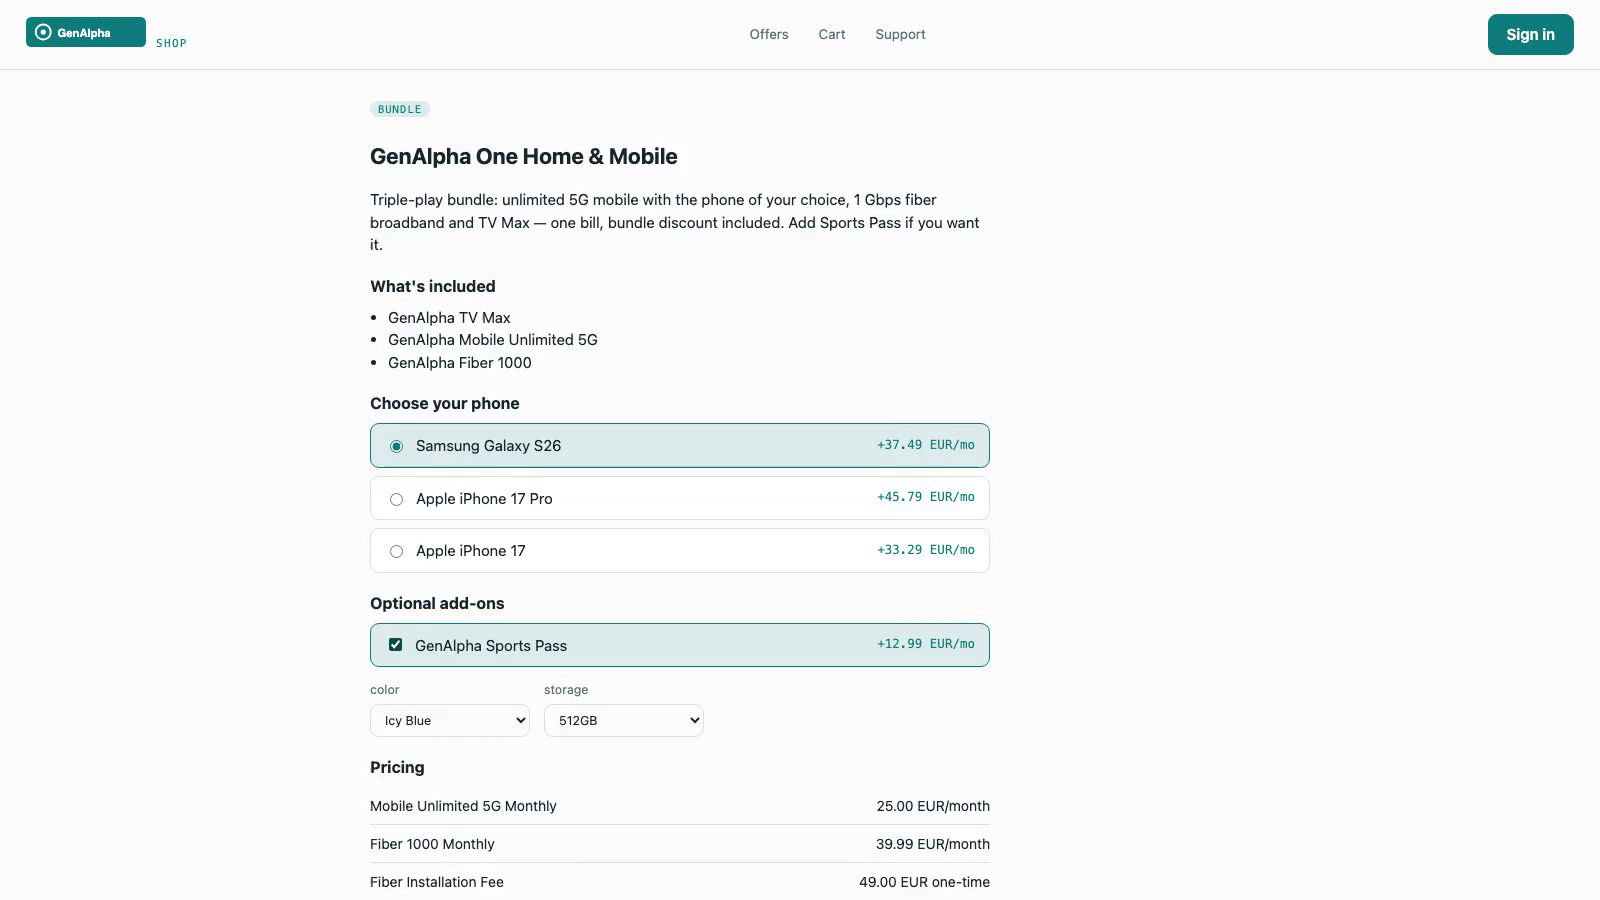
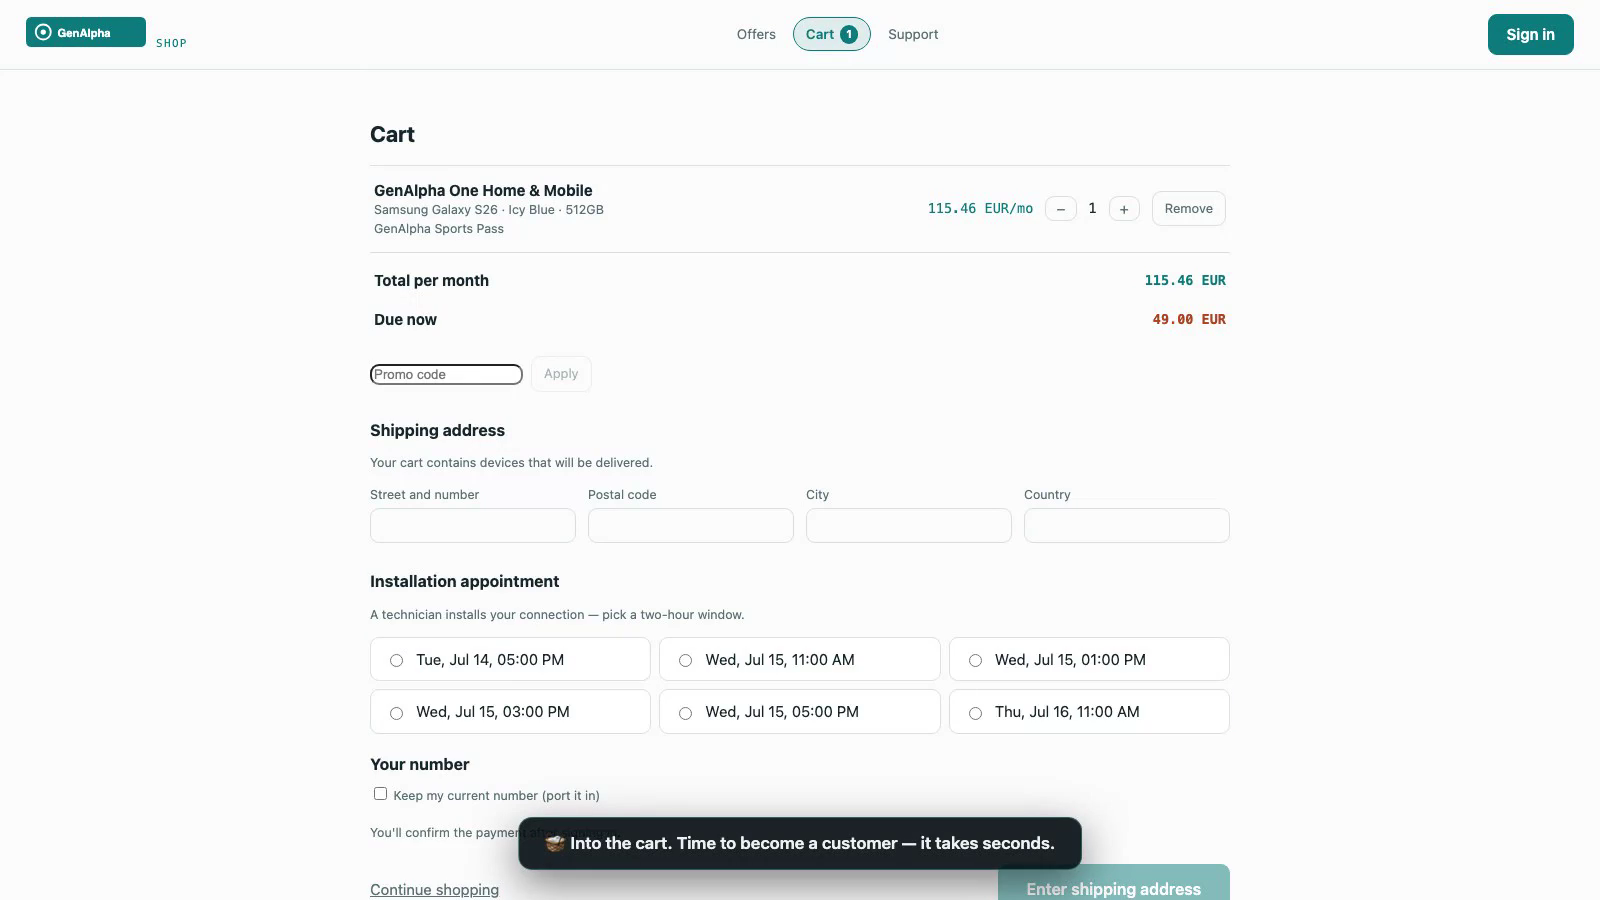
feat: journey film v7 (3:13) — Emil's B2B story, in a pocket
New beat closing Mia's act: the mobile app's web build filmed inside a
phone bezel (honest framing — it IS the mobile codebase in its web
target). Emil signs in and the app recomposes for a B2B member: 'Your
plan is provided by [company]' banner, no personal pay-bill card, and
his full self-care — SIM PUK/PIN, top-up, a plan change that keeps his
number. One app, two lives, decided by data. (Take 12 died on an
invalid mixed Playwright selector — exit-code gate caught it before
anything shipped.)

diff --git a/ops/e2e/journey_video.js b/ops/e2e/journey_video.js
@@ -374,10 +374,37 @@ async function confirmLogout(page) {
   await page.locator('[data-testid="price-adjustment"]').first().waitFor({ timeout: 15000 });
   await caption(page, '💚  And marketing\'s rule is already here: 15% off, previewed before checkout.');
   await captionOff(page);
-
-  /* ============ SCENE 5 — same build, a Norwegian operator ============ */
   await glideClick(page, page.locator('button', { hasText: 'Sign out' }).first());
   await confirmLogout(page);
+
+  // B2B in a pocket: Emil's company pays for his line — same app, recomposed
+  await page.goto('http://localhost:8080/app/');
+  // film the web build inside a phone bezel so it reads as what it is
+  await page.addStyleTag({ content: `
+    body{display:flex;justify-content:center;align-items:center;background:#0d1417 !important;min-height:100vh}
+    #root{width:400px !important;max-width:400px;height:820px;overflow:hidden;
+      border:12px solid #1c2326;border-radius:40px;box-shadow:0 30px 80px rgba(0,0,0,.6)}
+  ` }).catch(() => {});
+  await page.locator('text=Sign in').first().click({ timeout: 20000 }).catch(() => {});
+  await page.waitForSelector('input[name="username"]', { timeout: 20000 });
+  await lens(page);
+  await glideType(page, page.locator('input[name="username"]'), '[email redacted]');
+  await page.fill('input[name="password"]', 'emil');
+  await glideClick(page, page.locator('input[type="submit"], button[type="submit"]').first());
+  await page.waitForSelector('[data-testid="app-org-banner"]', { timeout: 25000 });
+  await page.addStyleTag({ content: `
+    body{display:flex;justify-content:center;align-items:center;background:#0d1417 !important;min-height:100vh}
+    #root{width:400px !important;max-width:400px;height:820px;overflow:hidden;
+      border:12px solid #1c2326;border-radius:40px;box-shadow:0 30px 80px rgba(0,0,0,.6)}
+  ` }).catch(() => {});
+  await page.waitForTimeout(2000);
+  console.log('· SCENE4-emil-mobile');
+  await caption(page, '📱  B2B in a pocket: Emil\'s line is company-paid — his app knows. Same build, recomposed by data.', 3600);
+  await captionOff(page);
+  await caption(page, '🧰  His whole self-care travels with him: SIM, top-ups, a plan change that keeps his number — while Acme gets the one invoice.', 3600);
+  await captionOff(page);
+
+  /* ============ SCENE 5 — same build, a Norwegian operator ============ */
   await page.goto('http://shop.nova.localhost:8080/shop/');
   await page.waitForSelector('.card', { timeout: 20000 });
   console.log('· SCENE5-nova');